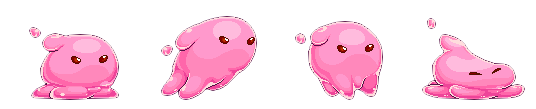
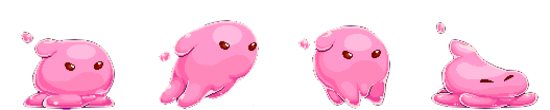
캐릭터프레임맞추기

diff --git a/character_runs.py b/character_runs.py
@@ -7,7 +7,7 @@ open_canvas(Back_Width, Back_Height)
 Slime_P = load_image('run_Pink_Slime.png')
 Slime_G = load_image('Green_Slime.png')
 Slime_B = load_image('Blue_Slime.png')
-BackG = load_image('background.png')
+BackG = load_image('vv.png')
 
 running = True
 
@@ -15,10 +15,10 @@ frame = 0
 while running:
     clear_canvas()
     BackG.draw(Back_Width // 2, Back_Height // 2)
-    Slime_P.clip_draw(frame * 100, 0, 100, 100, 200, 200)
+    Slime_P.clip_draw(frame * 137, 0, 130, 130, 90, 200)
+    frame = (frame + 1) % 4
     update_canvas()
-    frame = (frame + 1) % 8
-    delay(0.02)
+    delay(0.1)
     get_events()
 
 close_canvas()
